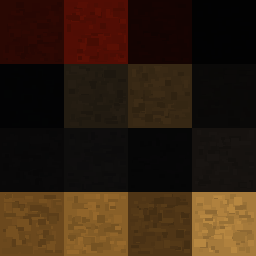
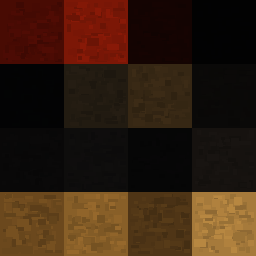
chore(project): apply updates to 5 project files
Modified: 5.
Text lines: +21 / -15; binary files: 1.
- Modify: "blender/weapons/rifle_sand_block_v1/Rifle_Sand_Block_V1.blend"
- Modify: "blender/weapons/rifle_sand_block_v1/Rifle_Sand_Block_V1.glb"
- Modify: "blender/weapons/rifle_sand_block_v1/asset_report.json"
- Modify: "blender/weapons/rifle_sand_block_v1/build_rifle.py"
- Modify: "blender/weapons/rifle_sand_block_v1/sand_block_atlas_256.png" (binary)

Changed region(s): [[0.0, 0.0, 0.5, 0.25]]

diff --git a/blender/weapons/rifle_sand_block_v1/build_rifle.py b/blender/weapons/rifle_sand_block_v1/build_rifle.py
@@ -37,7 +37,7 @@ colors = [
     (173, 145, 95), (193, 164, 110), (151, 126, 83), (211, 184, 132),
     (53, 51, 51), (66, 63, 62), (43, 42, 43), (82, 76, 69),
     (29, 30, 32), (102, 91, 74), (127, 109, 79), (57, 52, 48),
-    (112, 48, 28), (153, 65, 33), (79, 34, 23), (22, 23, 25),
+    (145, 58, 31), (185, 85, 43), (79, 34, 23), (22, 23, 25),
 ]
 size = 256
 pixels = [0.0] * (size * size * 4)
@@ -97,6 +97,9 @@ def mesh(name, vertices, faces, tile=0, bevel=0, magazine=False):
         mod.affect = 'EDGES'
         bpy.ops.object.modifier_apply(modifier=mod.name)
     uv = data.uv_layers.new(name='SandBlockUV')
+    minimum = [min(v.co[i] for v in data.vertices) for i in range(3)]
+    spans = [max(v.co[i] for v in data.vertices)-minimum[i] for i in range(3)]
+    density = min(1.60, .84/max(spans))
     for poly in data.polygons:
         normal = poly.normal
         drop = max(range(3), key=lambda i: abs(normal[i]))
@@ -104,7 +107,7 @@ def mesh(name, vertices, faces, tile=0, bevel=0, magazine=False):
         for li in poly.loop_indices:
             co = data.vertices[data.loops[li].vertex_index].co
             # Broad pixels at a consistent world density; never sample tile edges.
-            u, v = [(co[a] * 1.60 + .46) % .84 + .08 for a in axes]
+            u, v = [.08+(co[a]-minimum[a])*density for a in axes]
             uv.data[li].uv = ((tile % 4 + u) / 4, (tile // 4 + v) / 4)
         poly.use_smooth = False
     group = ob.vertex_groups.new(name=name)
@@ -196,7 +199,7 @@ for side in [-1,1]:
     box('Vent_Panel_Top', (x,.388,.151), (.012,.292,.022), 1, .0006)
     box('Vent_Panel_Bottom', (x,.388,.104), (.012,.292,.022), 0, .0006)
     for i in range(8):
-        box('Vent_Bridge_%s_%02d' % (side,i), (x,.253+i*.038,.1275), (.012,.015,.050), 0, .0005)
+        box('Vent_Bridge_%s_%02d' % (side,i), (x,.253+i*.038,.1275), (.012,.015,.025), 0)
     box('Front_Handguard_Rim', (x,.533,.127), (.014,.016,.082), 1, .0008)
 box('Handguard_Rear_Band', (0,.246,.127), (.101,.021,.087), 1, .0014)
 box('Handguard_Front_Band', (0,.536,.123), (.098,.019,.087), 4, .0012)
@@ -219,11 +222,11 @@ for side in [-1,1]:
                           (-.076,-.069)], .003, 5, .0005, side*.030)
     profile('Grip_Tan_Backstrap', [(.020,.033), (.033,.041), (-.025,-.109),
                                  (-.038,-.115)], .004, 9, 0, side*.030)
-profile('Trigger_Guard', [(.017,.057), (.115,.057), (.121,.009),
-                         (.029,.009), (.020,.021), (.028,.027),
-                         (.103,.027), (.104,.045), (.017,.045)], .026, 9, .0007)
-profile('Trigger', [(.064,.059), (.074,.056), (.069,.033),
-                   (.059,.027), (.055,.033), (.061,.039)], .011, 8)
+profile('Trigger_Guard', [(.017,.038), (.115,.038), (.121,-.010),
+                         (.029,-.010), (.020,.002), (.028,.008),
+                         (.103,.008), (.104,.026), (.017,.026)], .026, 9, .0007)
+profile('Trigger', [(.064,.040), (.074,.037), (.069,.014),
+                   (.059,.008), (.055,.014), (.061,.020)], .011, 8)
 
 # Slightly forward-slanted straight magazine, three long stamped flutes.
 mag_outline = [(.112,.037), (.214,.037), (.241,-.137), (.133,-.152)]
@@ -357,7 +360,10 @@ world.node_tree.nodes['Background'].inputs[0].default_value = (.075,.080,.092,1)
 world.node_tree.nodes['Background'].inputs[1].default_value = .45
 scene.world = world
 floor_mat = bpy.data.materials.new('Graphite Floor')
-floor_mat.diffuse_color = (.035,.039,.047,1)
+floor_mat.use_nodes = True
+floor_bsdf = floor_mat.node_tree.nodes.get('Principled BSDF')
+floor_bsdf.inputs['Base Color'].default_value = (.025,.028,.034,1)
+floor_bsdf.inputs['Roughness'].default_value = .88
 bpy.ops.mesh.primitive_plane_add(size=200, location=(0,0,-.164))
 floor = bpy.context.object
 floor.name = 'Review_Ground'
